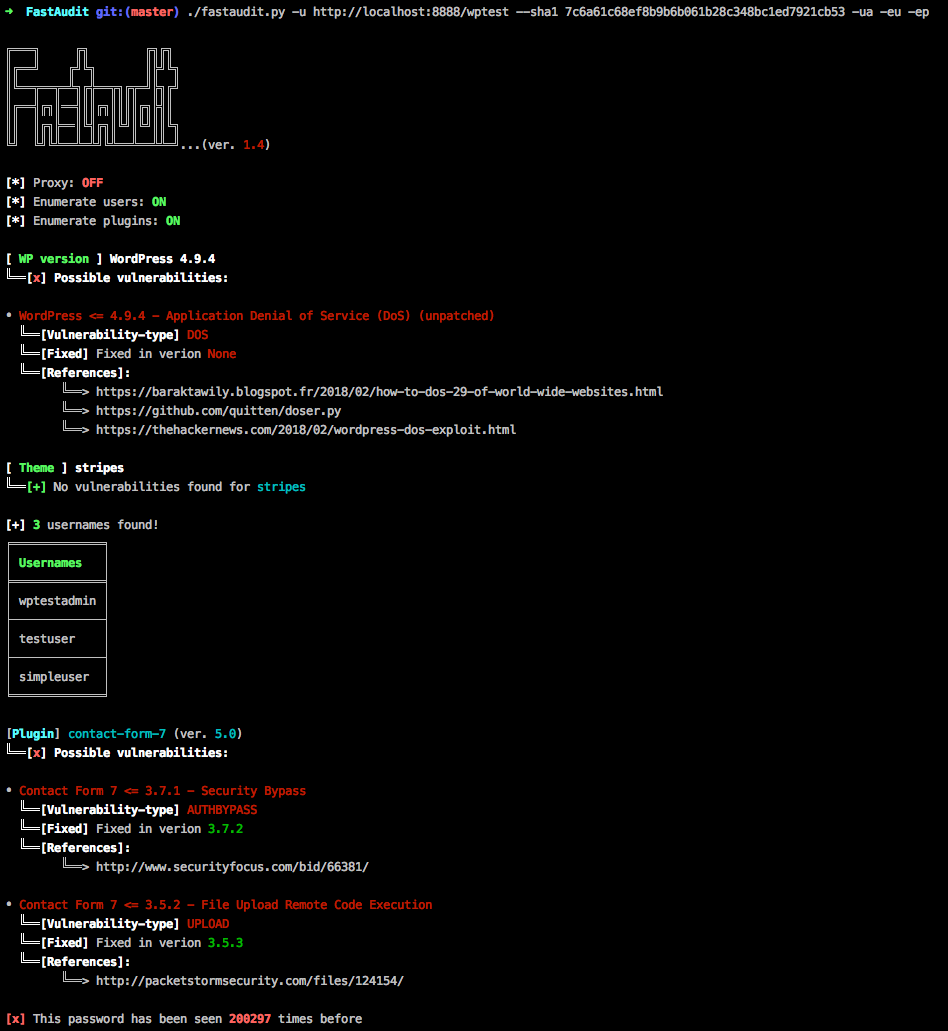
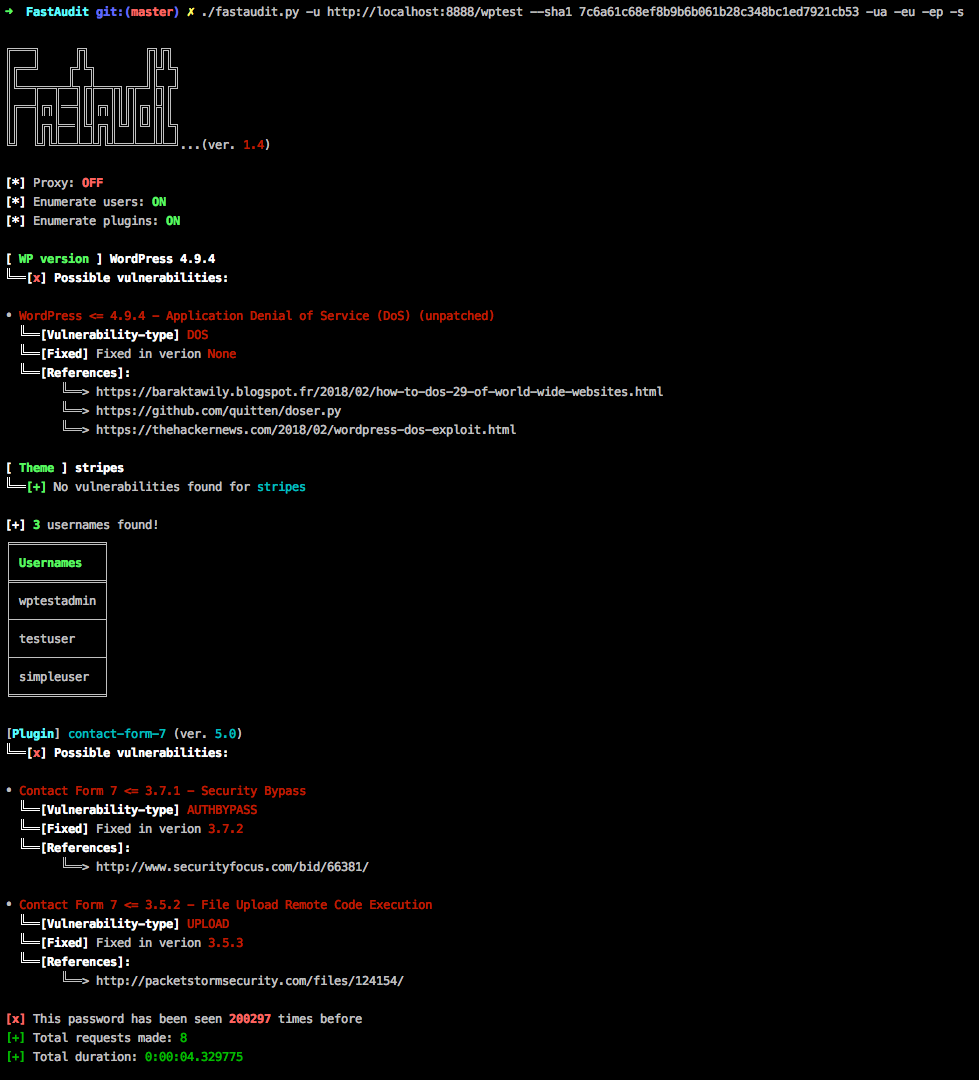
modified wp/utils

Changed region(s): [[0.0, 0.0, 0.9789, 0.9932]]

diff --git a/wp/utils.py b/wp/utils.py
@@ -31,6 +31,7 @@ import requests
 from socket import *
 from urlparse import urlparse
 from bs4 import BeautifulSoup
+from datetime import datetime
 try:
     from tabulate import tabulate
     from fake_useragent import UserAgent
@@ -54,6 +55,8 @@ class FastAudit():
         self.__pass      = sha1pass
         self.__shodan    = shodan_api
         self.__key       = shodan_key
+        self.__totalreqs = 0 # counts total requests made
+        self.__starttime = datetime.now()
 
         # set user-agent
         if useragent:
@@ -93,6 +96,12 @@ class FastAudit():
         if self.__shodan and self.__key:
             self.shodanSearch(self.__url)
 
+        self.onExit()
+
+
+    def onExit(self):
+        print '\n{0}[+]{1} Total requests made: {0}{2}{1}'.format(G, S, self.__totalreqs-1)
+        print '{0}[+]{1} Total duration: {0}{2}{1}\n '.format(G, S, datetime.now()-self.__starttime)
 
     def showUsers(self):
         """print usernames gathered using tabulate"""
@@ -127,6 +136,7 @@ class FastAudit():
             useragent = self.__useragent
         try:
             # check for proxy
+            self.__totalreqs += 1
             if self.__proxy and self.__host and self.__port:
                 proxies = {"http":'{}:{}'.format(self.__host, self.__port), "https":'{}:{}'.format(self.__host, self.__port)}
                 return requests.get(url, proxies=proxies, verify=False, headers = {'User-Agent':useragent})
@@ -253,8 +263,10 @@ class FastAudit():
                     vulns = ans.json()[self.__wpver.split()[1]]['vulnerabilities']
                     if vulns:
                         self.printInfo(vulns, 'version', self.__wpver)
-                    else: print '{0}╚══{2}[+]{1} No vulnerabilities found for {3}{4}{1}'.format(B, S, G, C, self.__wpver)
-                else: print '{0}╚══{2}[+]{1} No vulnerabilities found for {3}{4}{1}'.format(B, S, G, C, self.__wpver)
+                    else:
+                        print '{0}╚══{2}[+]{1} No vulnerabilities found for {3}{4}{1}'.format(B, S, G, C, self.__wpver)
+                else:
+                    print '{0}╚══{2}[+]{1} No vulnerabilities found for {3}{4}{1}'.format(B, S, G, C, self.__wpver)
         except KeyError:
             pass
         except IndexError:
@@ -272,8 +284,10 @@ class FastAudit():
                     vulns = ans.json()[self.__theme.lower()]['vulnerabilities']
                     if vulns:
                         self.printInfo(vulns, 'theme', self.__theme)
-                    else: print '{0}╚══{2}[+]{1} No vulnerabilities found for {3}{4}{1}'.format(B, S, G, C, self.__theme)
-                else: print '{0}╚══{2}[+]{1} No vulnerabilities found for {3}{4}{1}'.format(B, S, G, C, self.__theme)
+                    else:
+                        print '{0}╚══{2}[+]{1} No vulnerabilities found for {3}{4}{1}'.format(B, S, G, C, self.__theme)
+                else:
+                    print '{0}╚══{2}[+]{1} No vulnerabilities found for {3}{4}{1}'.format(B, S, G, C, self.__theme)
         except KeyError:
             pass
         except Exception, error:
@@ -290,8 +304,10 @@ class FastAudit():
                     vulns = ans.json()[plugin]['vulnerabilities']
                     if vulns:
                         self.printInfo(vulns, 'plugin', plugin)
-                    else: print '{0}╚══{2}[+]{1} No vulnerabilities found!'.format(B, S, G)
-                else: print '{0}╚══{2}[+]{1} No vulnerabilities found!'.format(B, S, G)
+                    else:
+                        print '{0}╚══{2}[+]{1} No vulnerabilities found!'.format(B, S, G)
+                else:
+                    print '{0}╚══{2}[+]{1} No vulnerabilities found!'.format(B, S, G)
         except Exception, ApiError:
             raise ApiError
 
